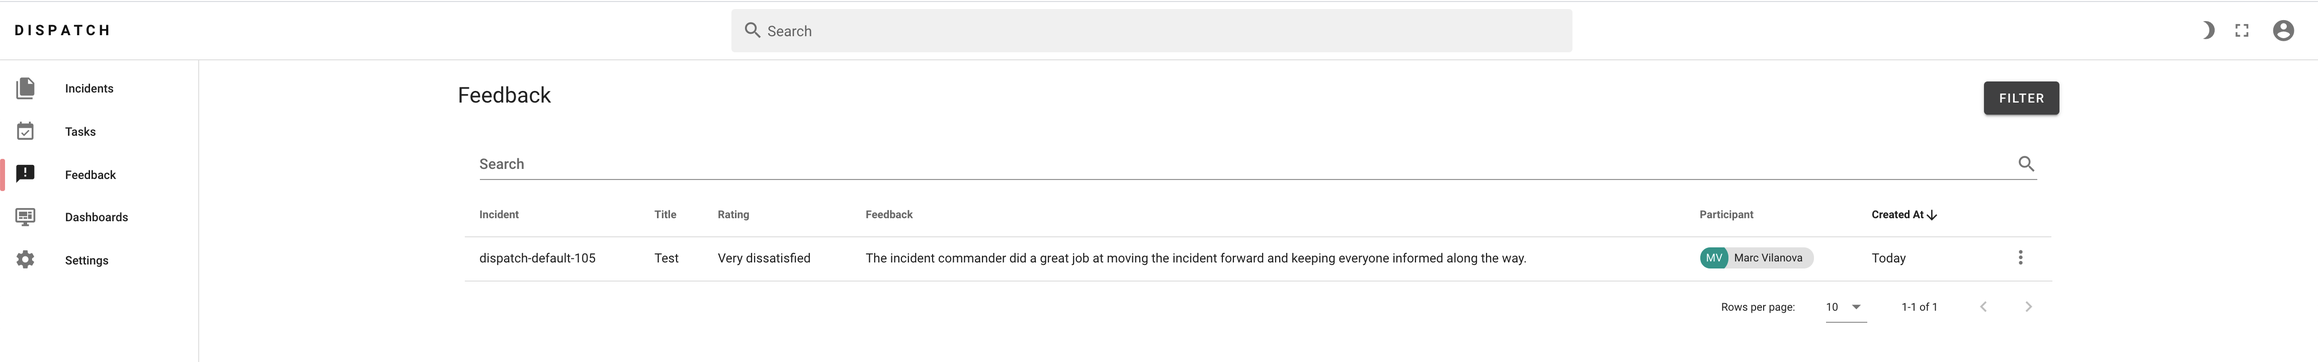
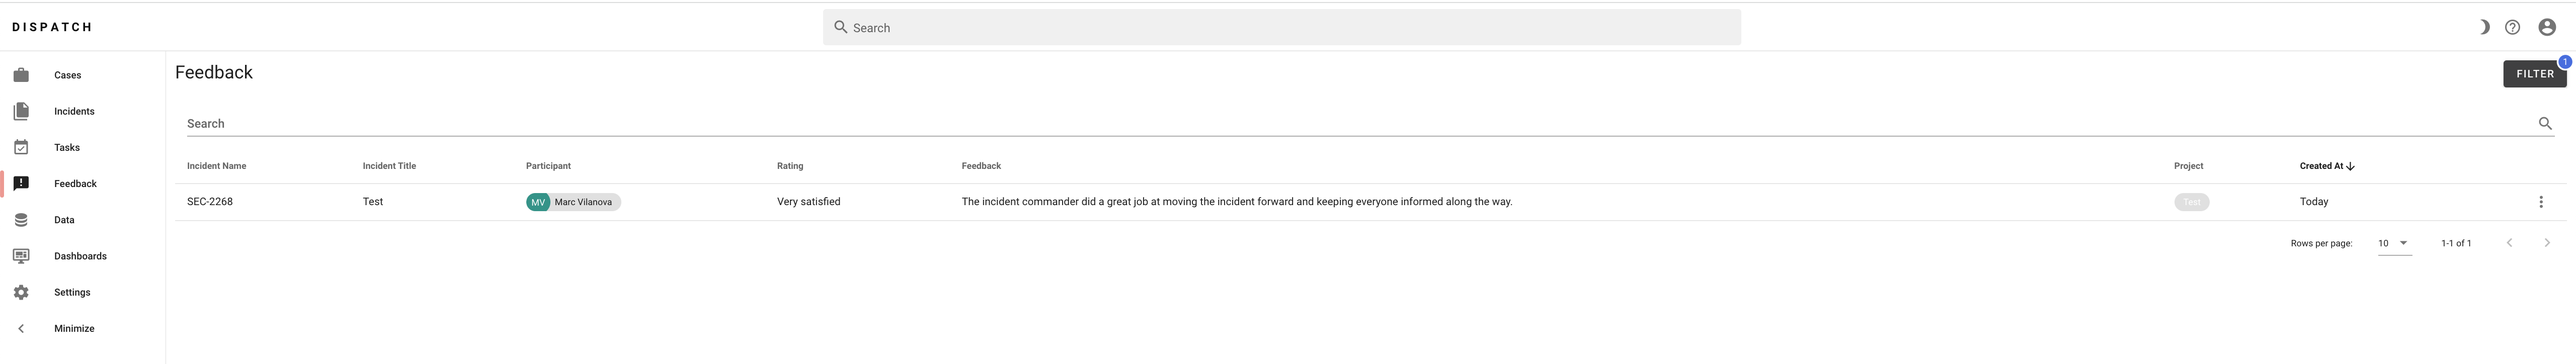
Updates feedback doc and screenshots

diff --git a/docs/user-guide/feedback.md b/docs/user-guide/feedback.md
@@ -2,8 +2,14 @@
 
 Dispatch sends a direct message on incident close to all incident participants asking them to rate their satisfaction on how to incident was handled and to provide feedback. Feedback submitted by incident participants is stored and displayed in the feedback section of the UI, and shared with the incident's commander via email on a daily basis.
 
+#### Direct Message
+
 ![](../.gitbook/assets/user-guide-incident-feedback-conversation-direct-message.png)
 
+#### Feedback Modal
+
 ![](../.gitbook/assets/user-guide-incident-feedback-conversation-modal.png)
+
+#### Feedback UI Table
 
 ![](../.gitbook/assets/admin-ui-incident-feedback.png)
